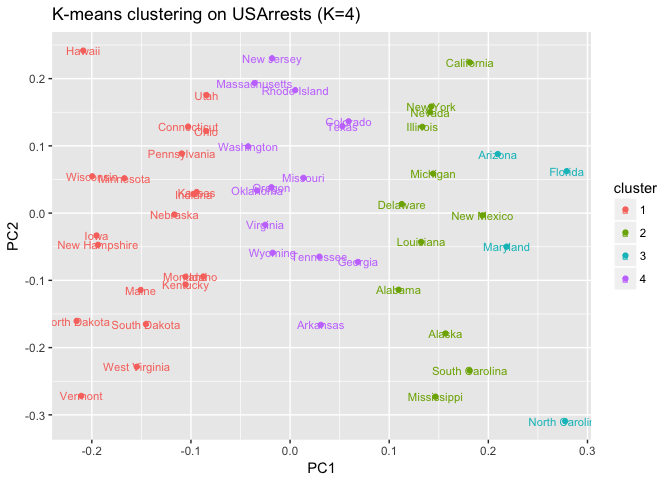
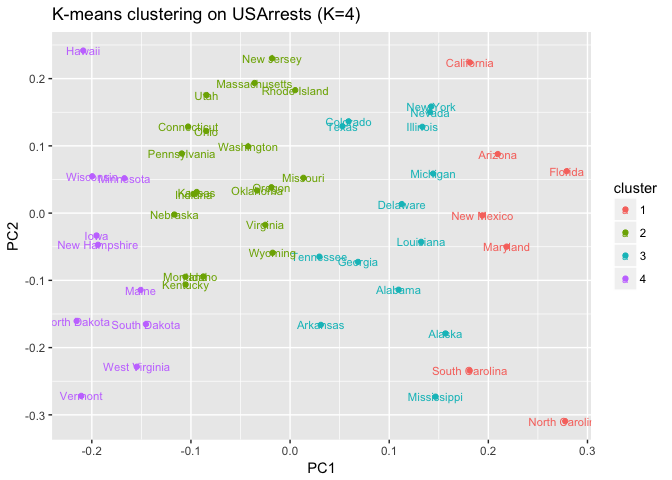
normalization explanation

diff --git a/students/yu_liqiang/yu_liqiang_hw8/yu_liqiang_HW8_PCA.md b/students/yu_liqiang/yu_liqiang_hw8/yu_liqiang_HW8_PCA.md
@@ -123,6 +123,8 @@ Clustering states
 
 Perform PCA on the dataset and plot the observations on the first and second principal components.
 
+**Notice that for part 2, we all use normalized data to eliminate the distortion resulted by different units, except the last two questions. See [Still about standardization \#481](https://github.com/UC-MACSS/persp-analysis/issues/481).**
+
 ``` r
 crime = read.csv("/Users/Rex/Desktop/Perspective/HW/persp-analysis/students/yu_liqiang/yu_liqiang_hw8/USArrests.csv")
 head(crime)
@@ -147,7 +149,7 @@ autoplot(prcomp(crime_tidy), data = crime, colour = 'State',label.size = 3,loadi
 ### Problem 2
 
 Perform *K*-means clustering with *K* = 2. Plot the observations on the first and second principal components and color-code each state based on their cluster membership. Describe your results.
-With K-means clustering (K=2), we clusters data for 50 states into 2 clusters. Each cluster contains approximately the same number of observations. Cluster 1, labeled by blue points, represents the cluster of states with low crime rate while Cluster 2 (organe points) represents states with high crime rate.
+With K-means clustering (K=2), we clusters data (normalized) for 50 states into 2 clusters. Each cluster contains approximately the same number of observations. Cluster 1, labeled by blue points, represents the cluster of states with low crime rate while Cluster 2 (organe points) represents states with high crime rate.
 
 ``` r
 autoplot(kmeans(crime_tidy, 2), data = USArrests, label = TRUE, label.size = 3)+labs(title="K-means clustering on USArrests (K=2)")
@@ -158,7 +160,7 @@ autoplot(kmeans(crime_tidy, 2), data = USArrests, label = TRUE, label.size = 3)+
 ### Problem 3
 
 Perform *K*-means clustering with *K* = 4. Plot the observations on the first and second principal components and color-code each state based on their cluster membership. Describe your results.
-With K-means clustering (K=4), we clusters data for 50 states into 4 clusters. Each cluster contains a different number of observations. From the left to the right, Cluster 1, labeled by blue points, contains about 9 observations and represents the cluster of states with the lowest crime rate among all 4 clusters. Cluster 2, labeled by green points, contains about 17 observations and represents the cluster of states with low-to-medium crime rate among all 4 clusters. Cluster 3, labeled by organe points, contains about 9 observations and represents the cluster of states with medium-to-high crime rate among all 4 clusters. Cluster 4, labeled by organe points, contains about 14 observations and represents the cluster of states with the highest crime rate among all 4 clusters.
+With K-means clustering (K=4), we clusters data (normalized) for 50 states into 4 clusters. Each cluster contains a different number of observations. From the left to the right, Cluster 1, labeled by blue points, contains about 9 observations and represents the cluster of states with the lowest crime rate among all 4 clusters. Cluster 2, labeled by green points, contains about 17 observations and represents the cluster of states with low-to-medium crime rate among all 4 clusters. Cluster 3, labeled by organe points, contains about 9 observations and represents the cluster of states with medium-to-high crime rate among all 4 clusters. Cluster 4, labeled by organe points, contains about 14 observations and represents the cluster of states with the highest crime rate among all 4 clusters.
 
 ``` r
 autoplot(kmeans(crime_tidy, 4), data = USArrests, label = TRUE, label.size = 3)+labs(title="K-means clustering on USArrests (K=4)")
@@ -169,7 +171,7 @@ autoplot(kmeans(crime_tidy, 4), data = USArrests, label = TRUE, label.size = 3)+
 ### Problem 4
 
 Perform *K*-means clustering with *K* = 3. Plot the observations on the first and second principal components and color-code each state based on their cluster membership. Describe your results.
-With K-means clustering (K=3), we clusters data for 50 states into 3 clusters. Each cluster contains a different number of observations. Cluster 1, labeled by blue points, contains about 21 observations and indicates the cluster of states with the lowest crime rate among all 3 clusters. Cluster 2, labeled by orange points, contains about 14 observations and represents the cluster of states with medium crime rate in United States. Cluster 3, labeled by organe points, contains about 16 observations and represents the cluster of states with the highest crime rate among all states in US.
+With K-means clustering (K=3), we clusters data (normalized) for 50 states into 3 clusters. Each cluster contains a different number of observations. Cluster 1, labeled by blue points, contains about 21 observations and indicates the cluster of states with the lowest crime rate among all 3 clusters. Cluster 2, labeled by orange points, contains about 14 observations and represents the cluster of states with medium crime rate in United States. Cluster 3, labeled by organe points, contains about 16 observations and represents the cluster of states with the highest crime rate among all states in US.
 
 ``` r
 autoplot(kmeans(crime_tidy, 3), data = USArrests, label = TRUE, label.size = 3)+labs(title="K-means clustering on USArrests (K=3)")
@@ -180,14 +182,16 @@ autoplot(kmeans(crime_tidy, 3), data = USArrests, label = TRUE, label.size = 3)+
 ### Problem 5
 
 Perform *K*-means clustering with *K* = 3 on the first two principal components score vectors, rather than the raw data. Describe your results and compare them to the clustering results with *K* = 3 based on the raw data.
-Using the score vectors instead of raw data, we get the same clustering result as in Problem 4, except the scale on x-y axis, which is reasonable since the score vector is linear dependent with principal components.
+Using the score vectors instead of raw data (normalized), we get the same clustering result as in Problem 4, except the scale on x-y axis, which is reasonable, since after normalization, the score vector is linear dependent with principal components. Things would be different if we did not normalize our data.
 Ref:[What are principal component scores?](https://stats.stackexchange.com/questions/222/what-are-principal-component-scores)
 
 ``` r
 crime_pca <- prcomp(crime_tidy)
 scores<-crime_pca$x #Score vectors stored in crime_pca$x
 centers=as.data.frame(kmeans(crime_tidy, 3)$centers)
-autoplot(kmeans(crime_tidy, 3), data = USArrests, label = TRUE, label.size = 3,scale = FALSE)+labs(title="K-means clustering on USArrests (K=3) on score vector")
+pca_score=as.data.frame(scores)
+rownames(pca_score) = crime[,1]
+autoplot(kmeans(as.data.frame(pca_score), 3), data = pca_score, label = TRUE, label.size = 3,scale = FALSE)+labs(title="K-means clustering on USArrests (K=3) on score vector")
 ```
 
 ![](yu_liqiang_HW8_PCA_files/figure-markdown_github/unnamed-chunk-7-1.png)
